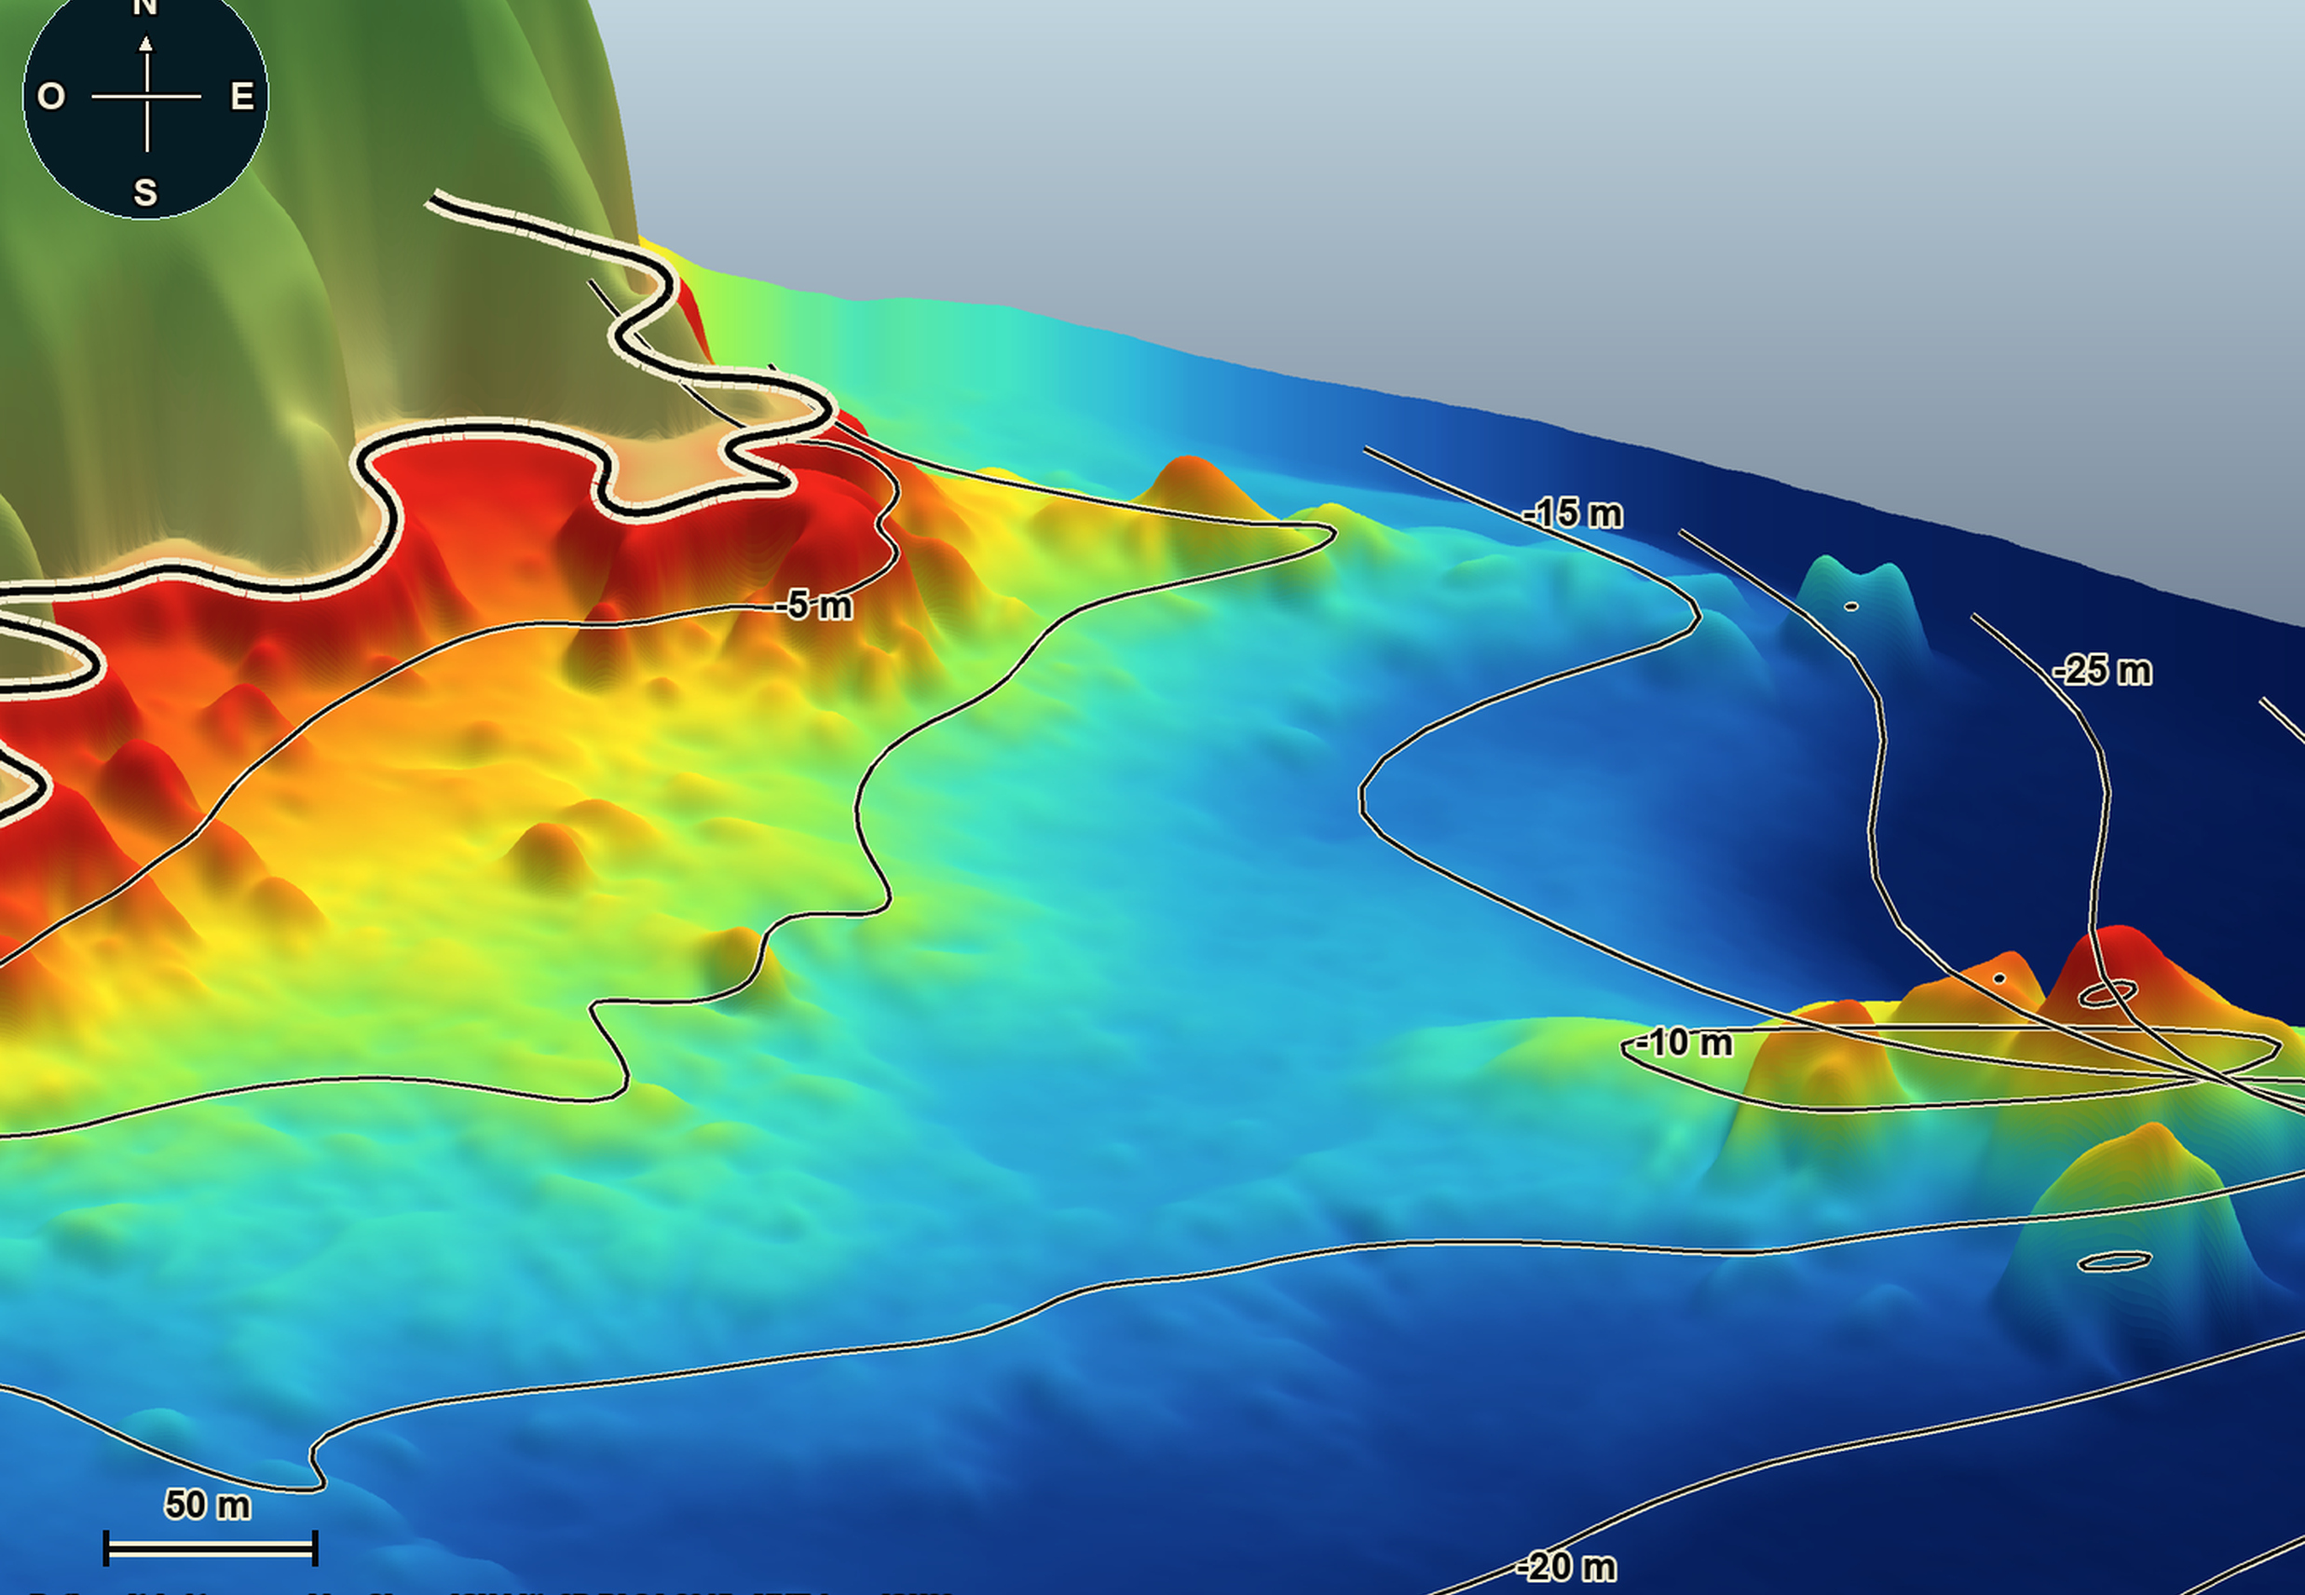
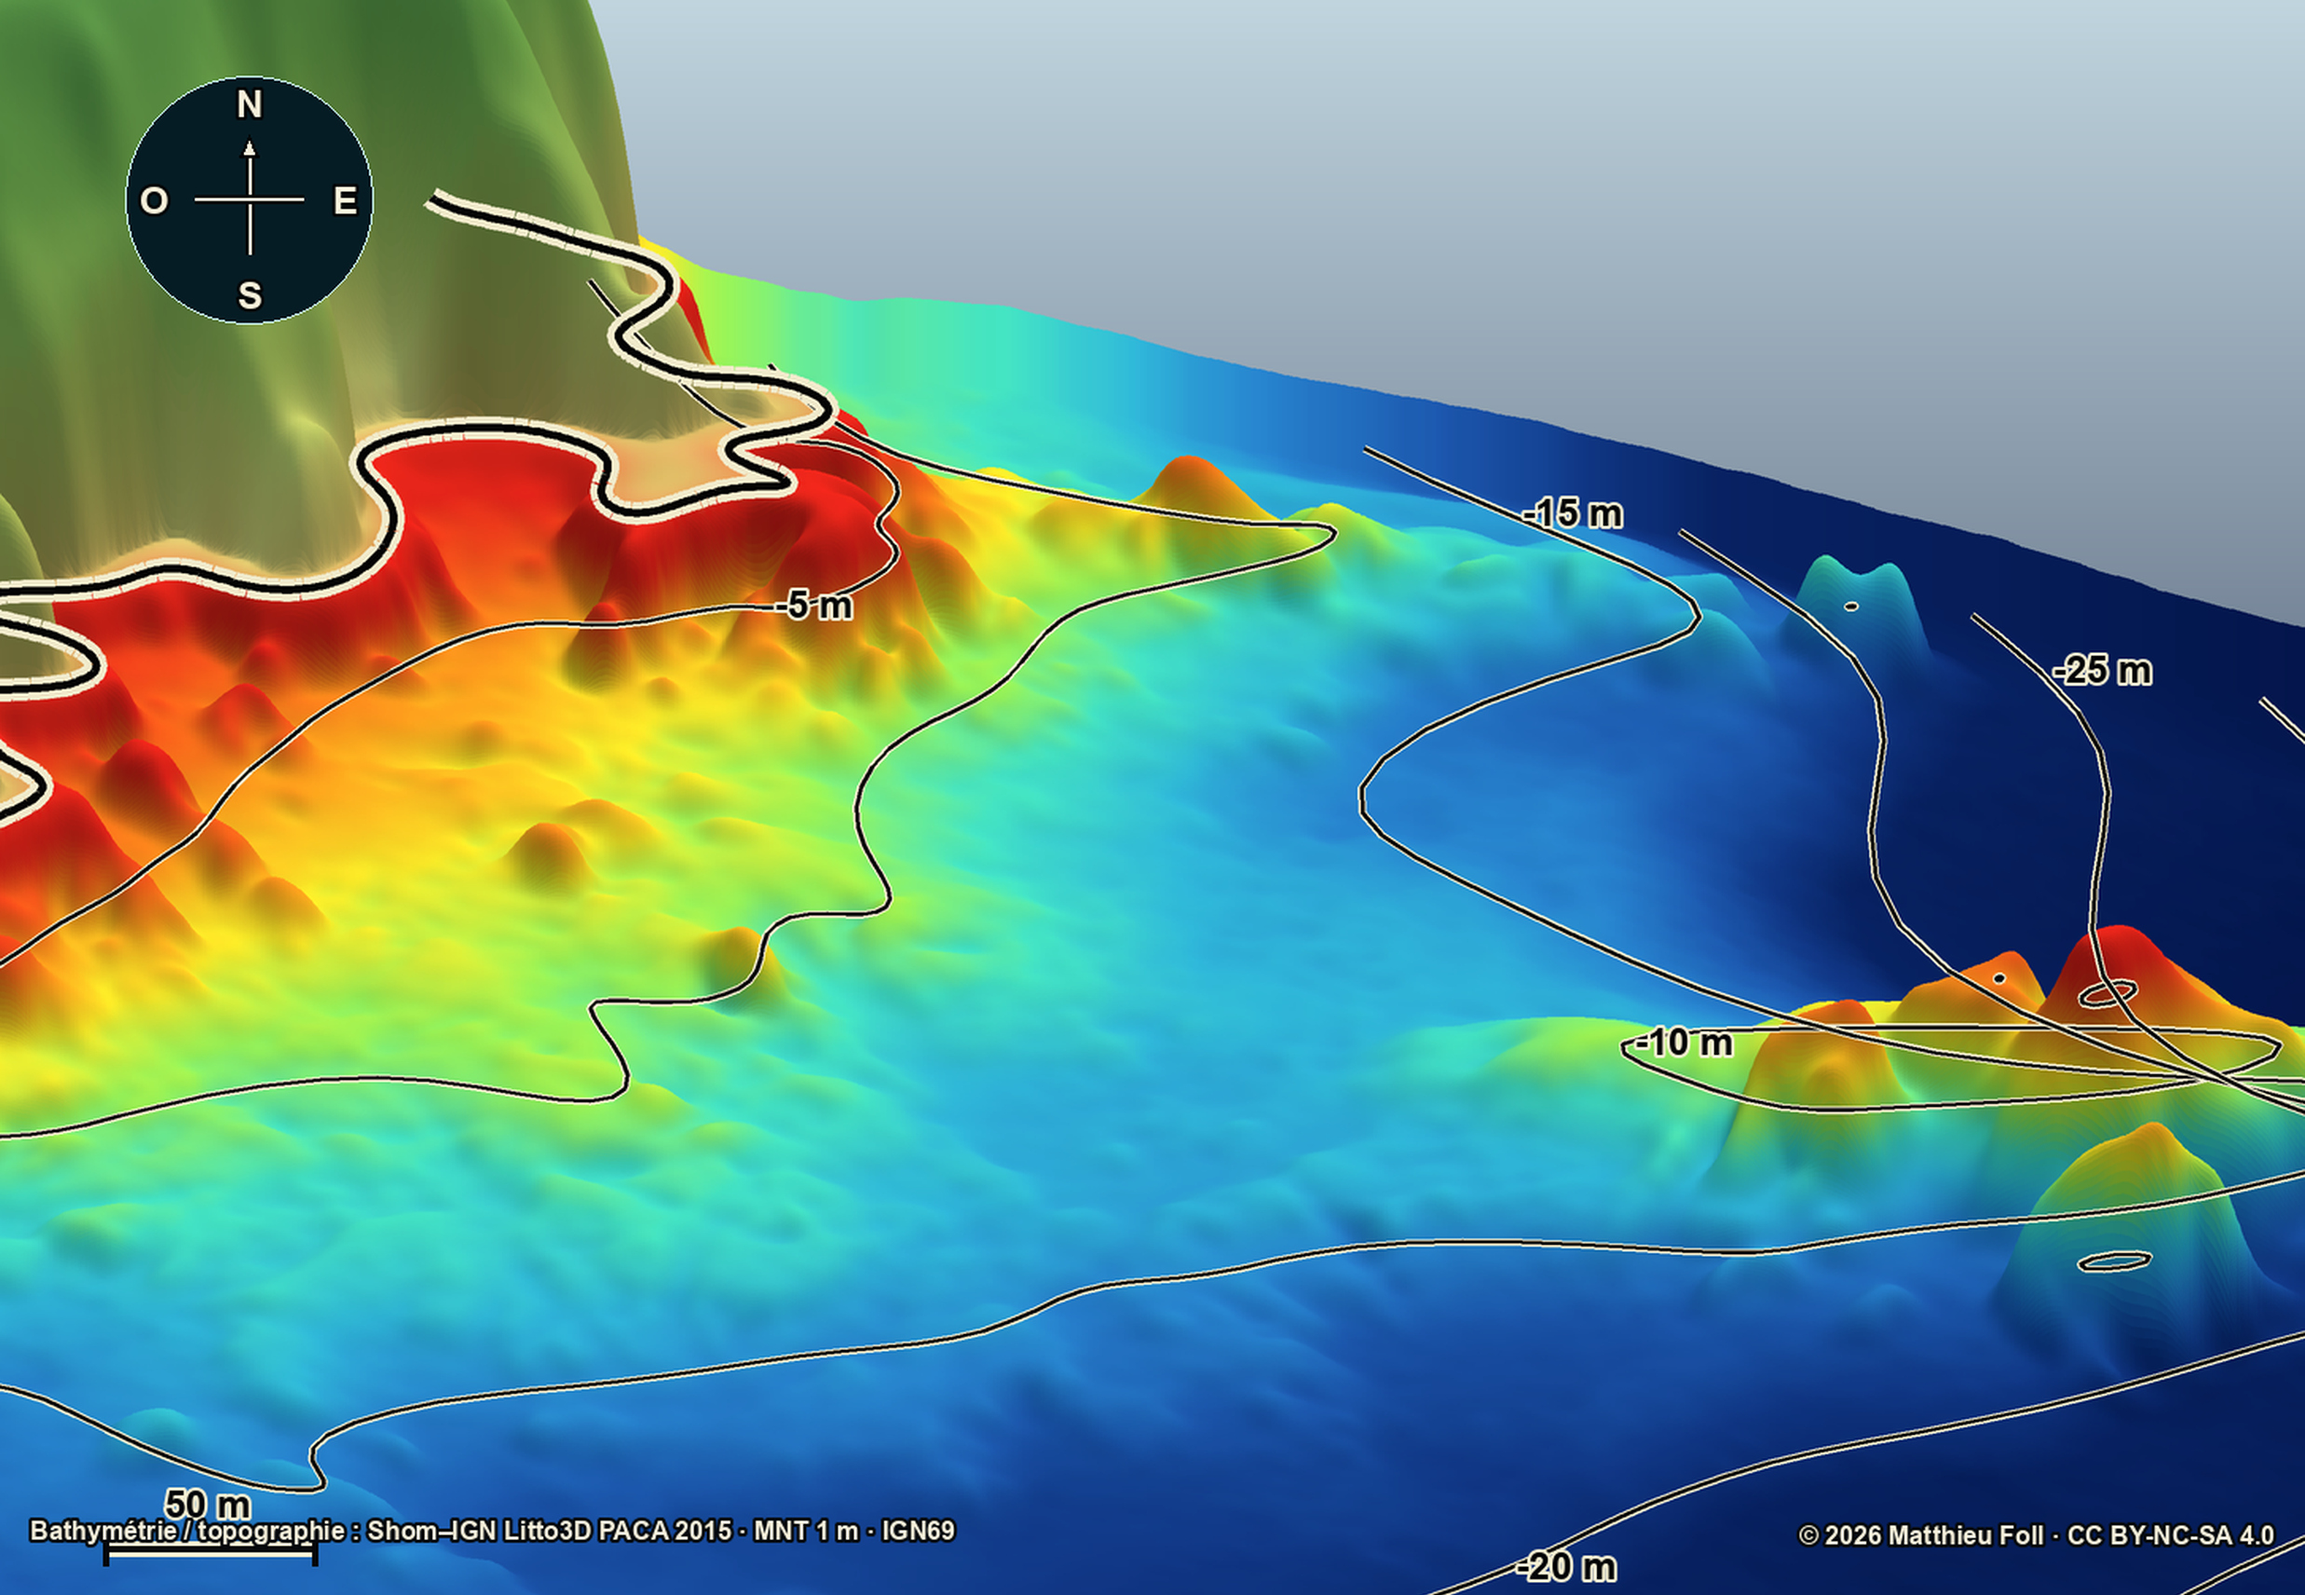
Fix La Vaquette 3D annotation margins

Changed region(s): [[0.0, 0.0, 0.1867, 0.2167], [0.0, 0.9287, 0.4046, 0.9907], [0.7781, 0.9287, 0.996, 0.9907]]

diff --git a/regions/alpes-maritimes/sites/la-vaquette-QA.md b/regions/alpes-maritimes/sites/la-vaquette-QA.md
@@ -52,3 +52,4 @@ Status: **site package complete; regional publication deliberately disabled** (`
 - Footprint interactif : 680×820 m → 740×1 230 m ; couverture mesurée environ 92,7 %. Ajout de la tuile officielle `1019_6274` ; aucun remplissage des cellules NoData.
 - Gain accepté : récif et relief au nord nettement étendus, isobathes cohérentes. Les trous de bord restent exclus des contours et du maillage. La pose interactive calibrée est inchangée ; seul le cadrage statique a été recentré pour éviter d’exposer la limite de source.
 - QA plein format : deux plans 2474×1712, deux vues 3D 2474×1712 et deux planches 5400×3250 inspectés ; nord, échelle et crédits présents.
+- Contrôle indépendant après intégration : les marges de la rose des vents et des crédits 3D ont été portées respectivement à 130 px et 52 px, puis les deux vues statiques ont été régénérées ; aucun élément n'est rogné par le cadre final.
